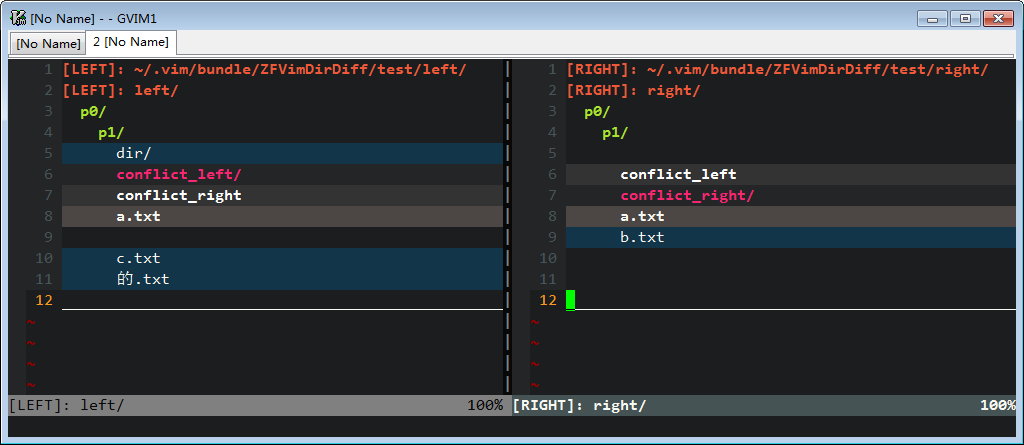
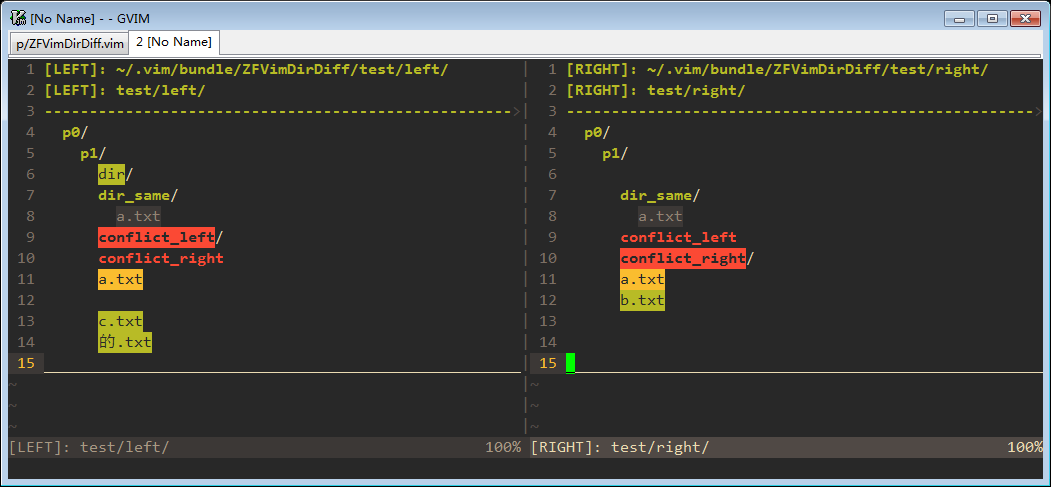
update

Changed region(s): [[0.0, 0.0, 1.0, 0.964], [0.0, 0.9933, 1.0, 1.0], [0.0, 0.3506, 0.0312, 0.409]]

diff --git a/README.md b/README.md
@@ -32,9 +32,12 @@ if you like my work, [check here](https://github.com/ZSaberLv0?utf8=%E2%9C%93&ta
 1. within the diff window:
 
     * use `DD` to update the diff result
-    * use `o` or `<cr>` to open file diff
-    * use `do` or `DH` to sync from another side to current side
-    * use `dp` or `DL` to sync from current side to another side
+    * use `o` or `<cr>` to diff current node
+    * use `u` to go parent for both side, `U` to go parent of this side,
+        `cd` or `O` to make current dir as diff root dir
+    * use `]c` or `DJ` to move to next diff, `[c` or `DK` to prev diff
+    * use `do` or `DH` to sync from another side to current side,
+        `dp` or `DL` to sync from current side to another side
     * use `dd` to delete node under cursor
     * use `p` to copy the node's path, and `P` for the node's full path
     * use `q` to exit diff
@@ -122,6 +125,8 @@ if you like my work, [check here](https://github.com/ZSaberLv0?utf8=%E2%9C%93&ta
         * `let g:ZFDirDiffKeymap_update = ['DD']`
         * `let g:ZFDirDiffKeymap_open = ['<cr>', 'o']`
         * `let g:ZFDirDiffKeymap_goParent = ['u']`
+        * `let g:ZFDirDiffKeymap_diffThisDir = ['cd', 'O']`
+        * `let g:ZFDirDiffKeymap_diffParentDir = ['U']`
         * `let g:ZFDirDiffKeymap_quit = ['q']`
         * `let g:ZFDirDiffKeymap_quitDiff = ['q']`
         * `let g:ZFDirDiffKeymap_nextDiff = [']c', 'DJ']`
